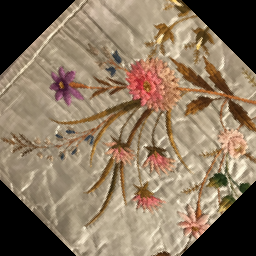
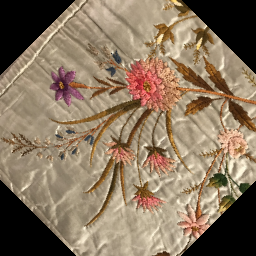
Fırat-polation

diff --git a/THE1/the1_solution.py b/THE1/the1_solution.py
@@ -42,7 +42,7 @@ def find_rotated_pos(x: float, y: float, o: tuple[float, float], degree: float =
     t_y = y - o[1]
     r_x = t_x * cos_val - t_y * sin_val
     r_y = t_x * sin_val + t_y * cos_val
-    return (r_x + o[0], r_y + o[1], )
+    return r_x + o[0], r_y + o[1],
 
 
 def rotate_image_linear(img_func: np.ndarray, degree: float = 0) -> np.ndarray:
@@ -52,17 +52,34 @@ def rotate_image_linear(img_func: np.ndarray, degree: float = 0) -> np.ndarray:
     for x in range(0, shape[0]):
         for y in range(0, shape[1]):
             new_point = find_rotated_pos(float(x), float(y), originPoint, degree)
-            # print(f"original point -> {x}, {y}, new point -> {new_point[0]}, {new_point[1]}")
             if new_point[0] < 0 or new_point[0] > shape[0] - 1 or new_point[1] < 0 or new_point[1] > shape[1] - 1:
                 for z in range(0, shape[2]):
                     ret_val[x][y][z] = 0
             else:
-                for z in range(0, shape[2]):
-                    ret_val[x][y][z] = numpy.uint(
-                        (int(img_func[math.floor(new_point[0])][math.floor(new_point[1])][z]) +
-                         int(img_func[math.ceil(new_point[0])][math.floor(new_point[1])][z]) +
-                         int(img_func[math.floor(new_point[0])][math.ceil(new_point[1])][z]) +
-                         int(img_func[math.ceil(new_point[0])][math.ceil(new_point[1])][z])) / 4)
+                x_floor = math.floor(new_point[0])
+                y_floor = math.floor(new_point[1])
+                x_ceil = math.ceil(new_point[0])
+                y_ceil = math.ceil(new_point[1])
+                if x_floor == x_ceil and y_floor == y_ceil:
+                    for z in range(0, shape[2]):
+                        ret_val[x][y][z] = img_func[x_floor][y_floor][z]
+                elif x_floor == x_ceil:
+                    for z in range(0, shape[2]):
+                        ret_val[x][y][z] = numpy.uint(
+                            float(img_func[x_floor][y_floor][z]) * (y_ceil - new_point[1]) +
+                            float(img_func[x_floor][y_ceil][z]) * (new_point[1] - y_floor))
+                elif y_floor == y_ceil:
+                    for z in range(0, shape[2]):
+                        ret_val[x][y][z] = numpy.uint(
+                            float(img_func[x_floor][y_floor][z]) * (x_ceil - new_point[0]) +
+                            float(img_func[x_ceil][y_floor][z]) * (new_point[0] - x_floor))
+                else:
+                    for z in range(0, shape[2]):
+                        ret_val[x][y][z] = numpy.uint(
+                            float(img_func[x_floor][y_floor][z]) * (x_ceil - new_point[0]) * (y_ceil - new_point[1]) +
+                            float(img_func[x_floor][y_ceil][z]) * (x_ceil - new_point[0]) * (new_point[1] - y_floor) +
+                            float(img_func[x_ceil][y_floor][z]) * (new_point[0] - x_floor) * (y_ceil - new_point[1]) +
+                            float(img_func[x_ceil][y_ceil][z]) * (new_point[0] - x_floor) * (new_point[1] - y_floor))
     return ret_val
 
 
@@ -73,9 +90,35 @@ def rotate_image_cubic(img_func: np.ndarray, degree: float = 0) -> np.ndarray:
     for x in range(0, shape[0]):
         for y in range(0, shape[1]):
             new_point = find_rotated_pos(float(x), float(y), originPoint, degree)
-            for z in range(0, shape[2]):
-                pass
-    pass
+            if new_point[0] < 1 or new_point[0] > shape[0] - 2 or new_point[1] < 1 or new_point[1] > shape[1] - 2:
+                for z in range(0, shape[2]):
+                    ret_val[x][y][z] = 0
+            else:
+                x_vals = [math.ceil(new_point[0]) + 1, math.ceil(new_point[0]), math.floor(new_point[0]),
+                          math.floor(new_point[0]) - 1]
+                y_vals = [math.ceil(new_point[1]) + 1, math.ceil(new_point[1]), math.floor(new_point[1]),
+                          math.floor(new_point[1]) - 1]
+
+                for z in range(0, shape[2]):
+                    ret_val[x][y][z] = numpy.uint(
+                        float(img_func[x_vals[0]][y_vals[0]][z]) * math.fabs(x_vals[2] - new_point[0]) * math.fabs(y_vals[2] - new_point[1]) / 16.0 +
+                        float(img_func[x_vals[1]][y_vals[0]][z]) * math.fabs(x_vals[3] - new_point[0]) * math.fabs(y_vals[2] - new_point[1]) / 16.0 +
+                        float(img_func[x_vals[2]][y_vals[0]][z]) * math.fabs(x_vals[0] - new_point[0]) * math.fabs(y_vals[2] - new_point[1]) / 16.0 +
+                        float(img_func[x_vals[3]][y_vals[0]][z]) * math.fabs(x_vals[1] - new_point[0]) * math.fabs(y_vals[2] - new_point[1]) / 16.0 +
+                        float(img_func[x_vals[0]][y_vals[1]][z]) * math.fabs(x_vals[2] - new_point[0]) * math.fabs(y_vals[3] - new_point[1]) / 16.0 +
+                        float(img_func[x_vals[1]][y_vals[1]][z]) * math.fabs(x_vals[3] - new_point[0]) * math.fabs(y_vals[3] - new_point[1]) / 16.0 +
+                        float(img_func[x_vals[2]][y_vals[1]][z]) * math.fabs(x_vals[0] - new_point[0]) * math.fabs(y_vals[3] - new_point[1]) / 16.0 +
+                        float(img_func[x_vals[3]][y_vals[1]][z]) * math.fabs(x_vals[1] - new_point[0]) * math.fabs(y_vals[3] - new_point[1]) / 16.0 +
+                        float(img_func[x_vals[0]][y_vals[2]][z]) * math.fabs(x_vals[2] - new_point[0]) * math.fabs(y_vals[0] - new_point[1]) / 16.0 +
+                        float(img_func[x_vals[1]][y_vals[2]][z]) * math.fabs(x_vals[3] - new_point[0]) * math.fabs(y_vals[0] - new_point[1]) / 16.0 +
+                        float(img_func[x_vals[2]][y_vals[2]][z]) * math.fabs(x_vals[0] - new_point[0]) * math.fabs(y_vals[0] - new_point[1]) / 16.0 +
+                        float(img_func[x_vals[3]][y_vals[2]][z]) * math.fabs(x_vals[1] - new_point[0]) * math.fabs(y_vals[0] - new_point[1]) / 16.0 +
+                        float(img_func[x_vals[0]][y_vals[3]][z]) * math.fabs(x_vals[2] - new_point[0]) * math.fabs(y_vals[1] - new_point[1]) / 16.0 +
+                        float(img_func[x_vals[1]][y_vals[3]][z]) * math.fabs(x_vals[3] - new_point[0]) * math.fabs(y_vals[1] - new_point[1]) / 16.0 +
+                        float(img_func[x_vals[2]][y_vals[3]][z]) * math.fabs(x_vals[0] - new_point[0]) * math.fabs(y_vals[1] - new_point[1]) / 16.0 +
+                        float(img_func[x_vals[3]][y_vals[3]][z]) * math.fabs(x_vals[1] - new_point[0]) * math.fabs(y_vals[1] - new_point[1]) / 16.0)
+
+    return ret_val
 
 
 def rotate_image(img_func: np.ndarray, degree: float = 0, interpolation_type: str = "linear") -> np.ndarray:
@@ -85,22 +128,21 @@ def rotate_image(img_func: np.ndarray, degree: float = 0, interpolation_type: st
         return rotate_image_cubic(img_func, degree)
 
 
-"""def histogram_equalization(img_func: np.array):
-    return img_hist_eq"""
+def histogram_equalization(img_func: np.array):
+    return img_hist_eq
 
 if __name__ == '__main__':
     if not os.path.exists(OUTPUT_PATH):
         os.makedirs(OUTPUT_PATH)
     # PART1
-    img = read_image(INPUT_PATH + "a1.png")
+    """img = read_image(INPUT_PATH + "a1.png")
     output = rotate_image(img, 45, "linear")
-    write_image(output, OUTPUT_PATH + "a1_45_linear.png")
+    write_image(output, OUTPUT_PATH + "a1_45_linear.png")"""
 
-    """
     img = read_image(INPUT_PATH + "a1.png")
     output = rotate_image(img, 45, "cubic")
     write_image(output, OUTPUT_PATH + "a1_45_cubic.png")
-
+    """
     img = read_image(INPUT_PATH + "a1.png")
     output = rotate_image(img, 90, "linear")
     write_image(output, OUTPUT_PATH + "a1_90_linear.png")
